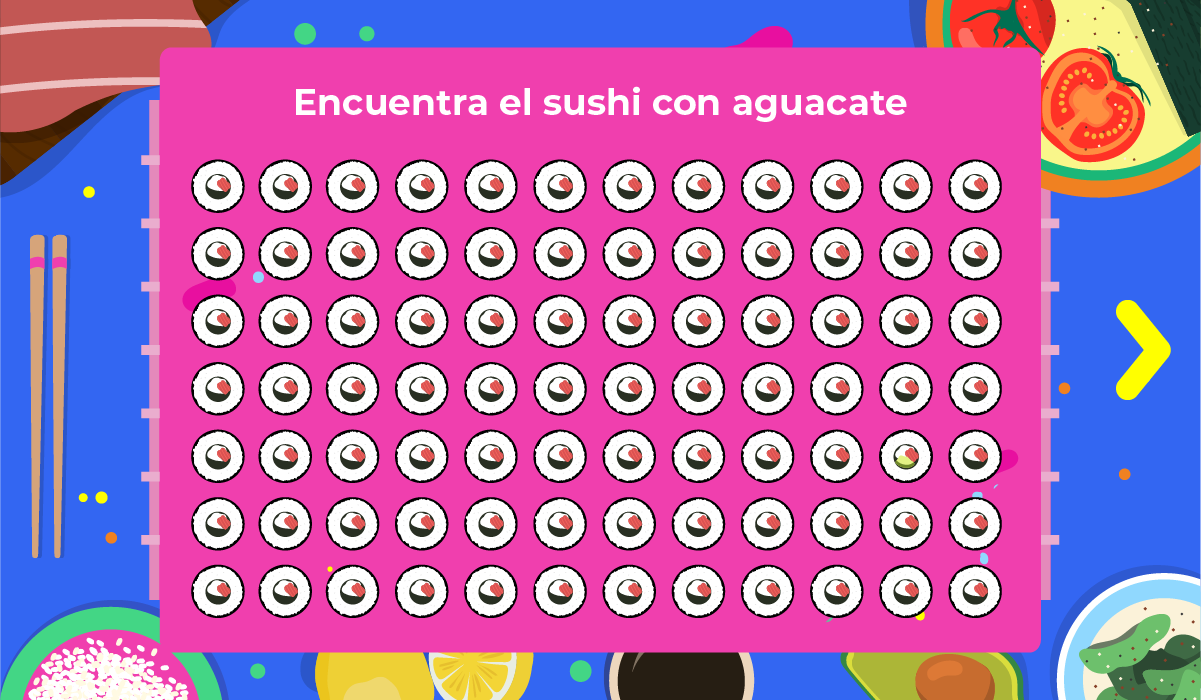
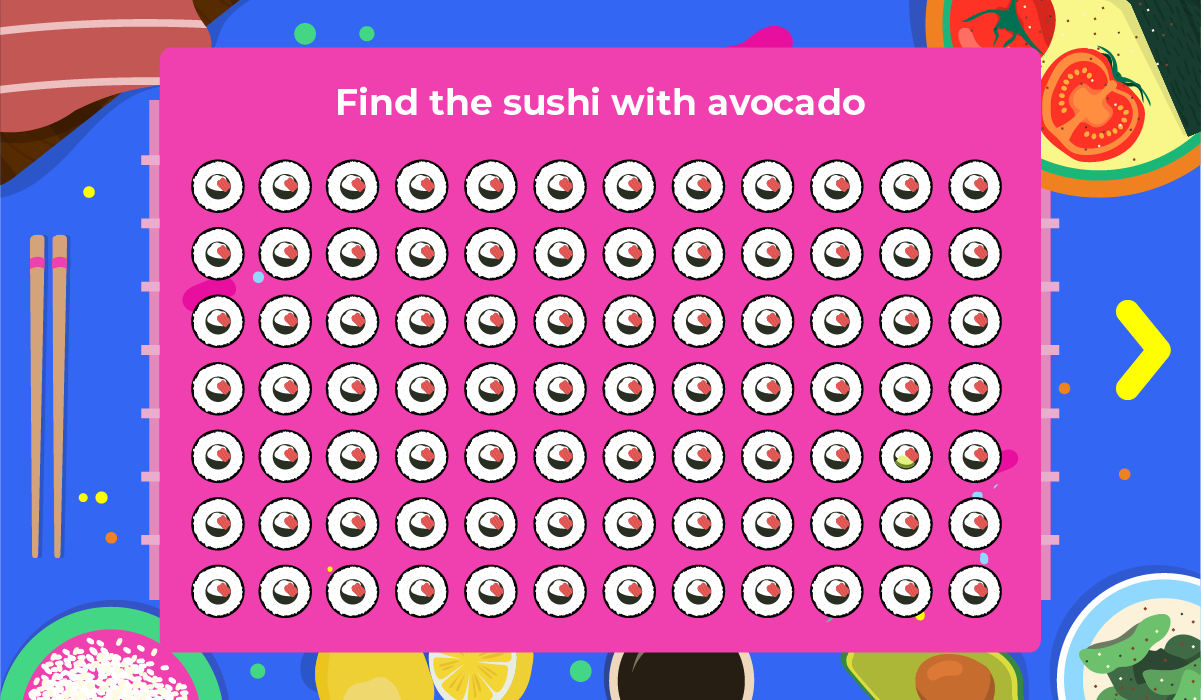
Botones de start, instrucciones y restart - textos en ingles

Changed region(s): [[0.2465, 0.12, 0.7702, 0.18]]

diff --git a/sketch.js b/sketch.js
@@ -64,6 +64,10 @@ let imgPergamino;
 let imgFondoAcertijo1;
 let imgFondoAcertijo2;
 let imgFondoAcertijo3;
+//Fondo Victoria
+let imgVictoria;
+//Fondo Game Over
+let imgGameOver;
 
 function preload() {
   //Imagenes de fondo
@@ -100,10 +104,14 @@ function preload() {
   imgFondoAcertijo1 = loadImage("data/FondoAcertijo1.png");
   imgFondoAcertijo2 = loadImage("data/FondoAcertijo2.png");
   imgFondoAcertijo3 = loadImage("data/FondoAcertijo3.png");
+  //Fondo Victoria
+  imgVictoria = loadImage("data/Victoria.png");
+  //Fondo Game Over
+  imgGameOver = loadImage("data/GameOver.png");
 }
 function setup() {
   createCanvas(1200, 700);
-  pantalla = 2;
+  pantalla = 0;
   //Plano
   plano = new Mapa();
   plano.crearCasillas();
@@ -343,9 +351,12 @@ function draw() {
     pasarAcertijo(3);
       break;
     case 9: //Pantalla de trifundo
-    background(255, 0, 255);
+    imageMode(CORNER);
+    image(imgVictoria, 0, 0)
       break;
     case 10://Pantalla de gameover
+    imageMode(CORNER);
+    image(imgGameOver, 0, 0)
       break;
     
 
@@ -481,11 +492,7 @@ function pasarAcertijo(nivel) {
       if ((plano.getLocacion(personaje.getPfil(), personaje.getPcol()) === 2) && pantalla === 8) {
         pantalla = 9
       }
-
-
-
   }
-
 }
 
 //Metodos de interaccion
@@ -493,6 +500,8 @@ function keyPressed() {
 
   //Movimiento del personaje
   switch (key) {
+
+    case 'A':
     case 'a': //Izquierda
       if (personaje.getPcol() - 1 >= 0) {
         if (plano.getLocacion(personaje.getPfil(), personaje.getPcol() - 1) === 0 || plano.getLocacion(personaje.getPfil(), personaje.getPcol() - 1) === 2 ) {
@@ -501,6 +510,8 @@ function keyPressed() {
         }
       }
       break;
+
+    case 'D':
     case 'd': //Derecha
       if (personaje.getPcol() + 1 < 12) {
         if (plano.getLocacion(personaje.getPfil(), personaje.getPcol() + 1) === 0 || plano.getLocacion(personaje.getPfil(), personaje.getPcol() + 1) === 2 ) {
@@ -509,6 +520,8 @@ function keyPressed() {
         }
       }
       break;
+
+    case 'S':
     case 's': //Abajo
       if (personaje.getPfil() + 1 < 7) {
         if (plano.getLocacion(personaje.getPfil() + 1, personaje.getPcol()) === 0 || plano.getLocacion(personaje.getPfil() + 1, personaje.getPcol()) === 2 ) {
@@ -518,27 +531,28 @@ function keyPressed() {
       }
 
       break;
+
+    case 'W':
     case 'w': //Arriba
       if (personaje.getPfil() - 1 >= 0) {
         if (plano.getLocacion(personaje.getPfil() - 1, personaje.getPcol()) === 0 || plano.getLocacion(personaje.getPfil() - 1, personaje.getPcol()) === 2) {
           personaje.setPfil(personaje.getPfil() - 1);
           personaje.setOrientacion(1);
-
         }
       }
 
       break;
 
+    case 'O':
     case 'o':
       personaje.disparar('o');
 
-
       break;
+
+    case 'P':
     case 'p':
       personaje.disparar('p');
       break;
-
-
   }
 }
 
@@ -554,7 +568,6 @@ function mousePressed(){
 
   if(pantalla === 4){
     acertijo1.setRevelar(false);
-    
   }
 
   //Acertijo 2
@@ -578,8 +591,48 @@ function mousePressed(){
   if(pantalla === 8){
     acertijo3.setRevelar(false);
   }
-  
 
+//BOTONES
+
+switch (pantalla) {
+  case 0: //Pantalla de inicio
+  
+  //Botón de empezar juego
+  if(mouseX > 493 && mouseX < 706 &&
+    mouseY > 579 && mouseY < 639){
+      pantalla = 1;
+    }
+
+  //Botón de instrucciones
+  if(mouseX > 493 && mouseX < 706 &&
+    mouseY > 511 && mouseY < 571){
+      pantalla = 2;
+    }
+    break;
+
+  case 1: //Pantalla de instrucciones
+  
+  //Botón de iniciar juego desde las instrucciones
+  if(mouseX > 460 && mouseX < 739 &&
+    mouseY > 544 && mouseY < 623){
+      pantalla = 2;
+    }
+    break;
+
+  case 9: //Pantalla de triunfo/victoria
+  if(mouseX > 863 && mouseX < 1162 &&
+    mouseY > 498 && mouseY < 582){
+      location.reload();
+    }
+    break;
+
+  case 10: //Pantalla de Game Over
+  if(mouseX > 450 && mouseX < 739 &&
+    mouseY > 498 && mouseY < 623){
+    location.reload();
+    }
+    break;
+  }
 }
 
 function mouseMoved(){
